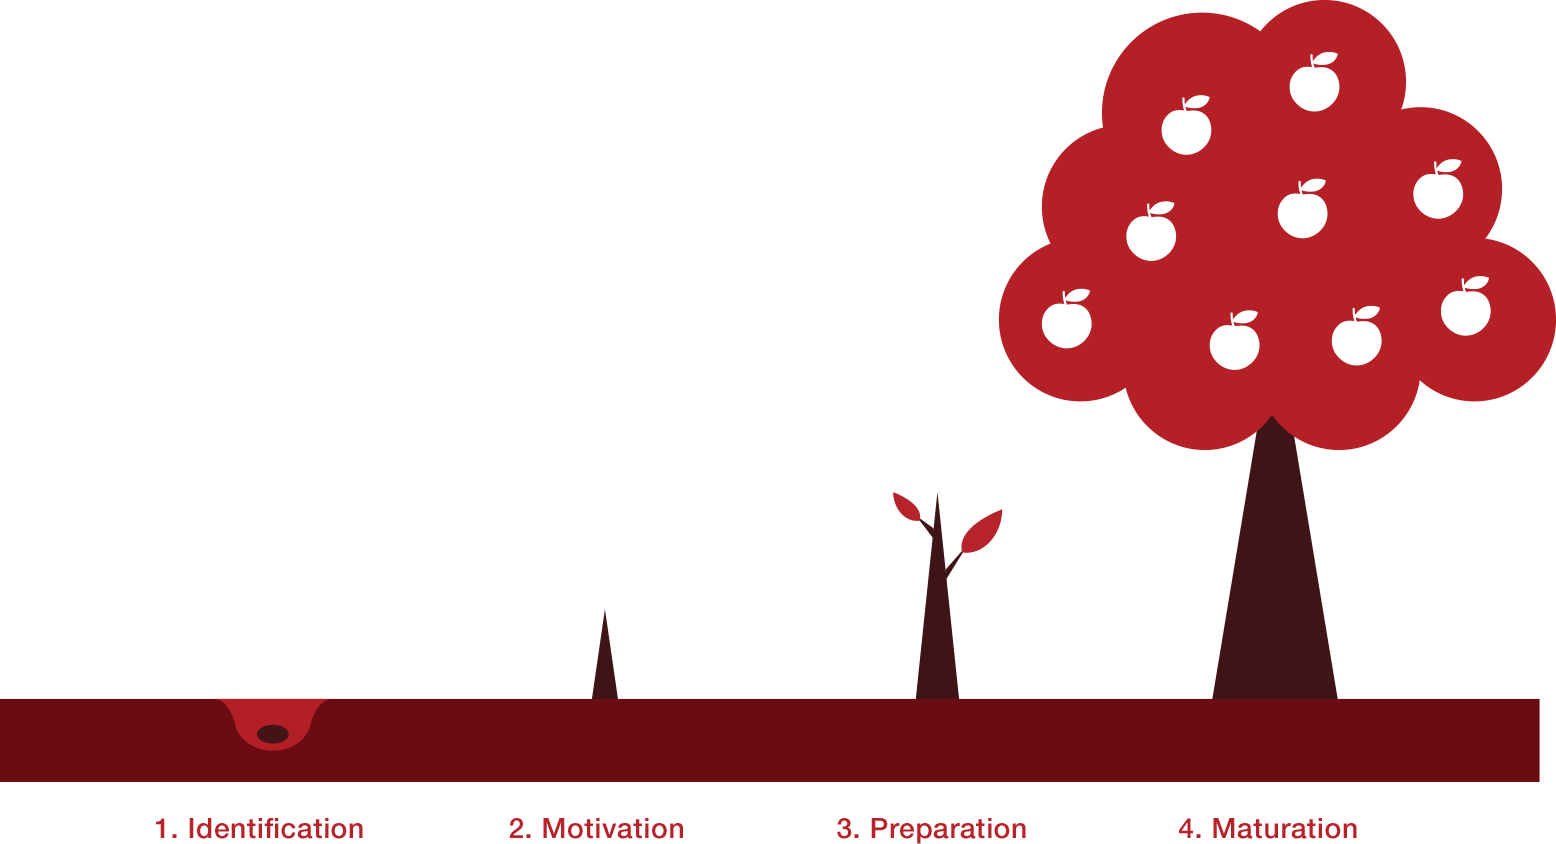
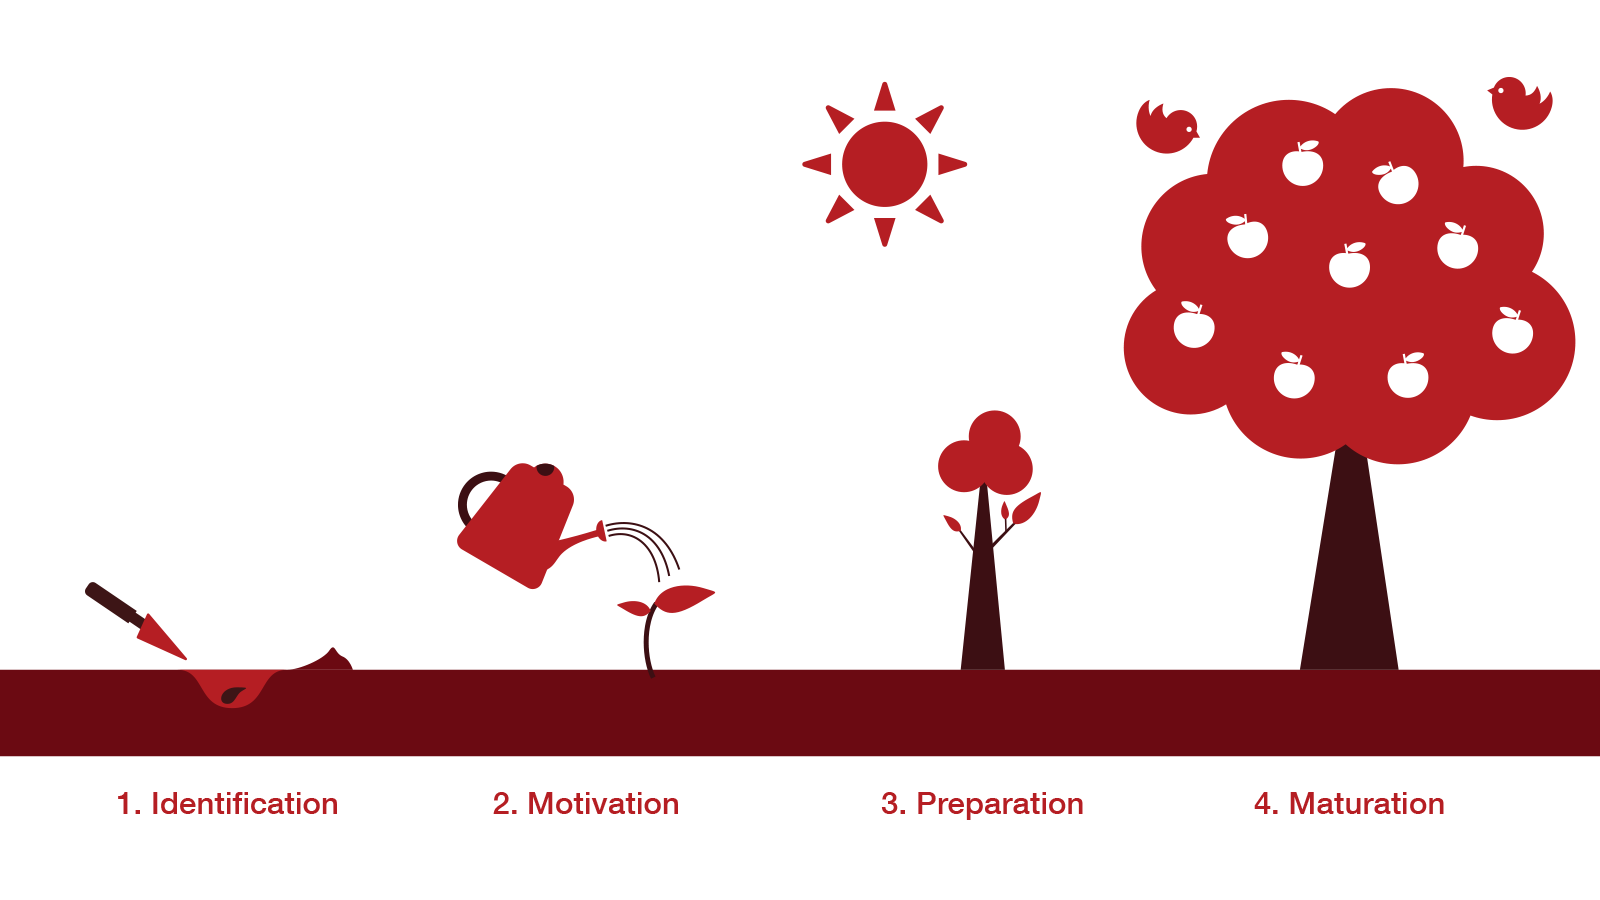
add privacy page / add keystory variation / update about page illustration

diff --git a/public/js/app/keystory/controller.js b/public/js/app/keystory/controller.js
@@ -12,6 +12,8 @@ App.Keystory.controller = {
       }, 1000);
     });
     // this.initSwitchHero();
+    this.initTextSlider();
+    this.initTextSlider2();
   },
 
   initSwitchHero: function() {
@@ -29,7 +31,6 @@ App.Keystory.controller = {
       if (count === photos.length) { count = 0; }
       $(this).css('background-image', 'url(' + photos[count] + ')');
     });
-    this.initTextSlider();
   },
 
   initTextSlider: function() {
@@ -93,5 +94,66 @@ App.Keystory.controller = {
     }
 
 
+  },
+  initTextSlider2: function() {
+    var self = this;
+
+    if (App.isMobile()) {
+      // return;
+    }
+
+
+    var selector = '.quote.tag-line .tag-container';
+    var texts = [
+      'Over 3,000 satisfied students',
+      '75% accepted to 1st choice university',
+      '90% accepted to top 3 choice universities',
+      '90% reached target test score',
+      '100% of students love Keystone!'
+    ];
+
+    var count = 0;
+
+    nextText();
+    $(selector).addClass('animated');
+    $(selector + ' h1').text(texts[count]);
+
+
+
+    setTimeout(function () {
+      $(selector).addClass('fadeOutLeft');
+    }, 5000);
+
+    function nextText () {
+
+      setInterval(function() {
+        count ++;
+        if (count === texts.length) {
+          count = 0;
+        }
+
+
+
+        $(selector + ' h1').text(texts[count]);
+        $(selector).addClass('fadeInRight');
+        $(selector).removeClass('fadeOutLeft');
+
+        setTimeout(function() {
+          $(selector).addClass('fadeOutLeft');
+          $(selector).removeClass('fadeInRight');
+
+        }, 5000);
+        //change text
+
+        // fade in right
+
+        // wait 5 sec
+
+        // fade out left
+
+
+      }, 5500);
+
+    }
   }
 };

diff --git a/public/styles/site/keystory.scss b/public/styles/site/keystory.scss
@@ -63,8 +63,8 @@
     }
   }
   .sub {
-    display: none;
-    /*font-size: 40px;*/
+    /*display: none;*/
+    font-size: 40px;
     font-weight: lighter;
     @media (max-width: $tablet-width) {
       display: block;
@@ -136,5 +136,34 @@
 
 
 .connect {
+
+}
+
+/* ------ keystory2 ------*/
+
+.quote.tag-line { 
+  height: 300px;
+  text-align: center;
+  padding: 40px 3% 10px 3% !important;
+  @media (max-width: $tablet-width) {
+    height: 250px;
+  }
+
+  h1 {
+    /*color: $main-red;*/
+    /*font-weight: bold;*/
+    margin-top: 85px;
+    margin-bottom: 15px;
+    @media (max-width: $tablet-width) {
+      font-size: 30px;
+      margin-top: 65px;
+    }
+  }
+  .underline {
+    height: 2px;
+    background: $main-red;
+    width: 40px;
+    margin: auto;
+  }
 
 }

diff --git a/routes/index.js b/routes/index.js
@@ -38,11 +38,13 @@ exports = module.exports = function(app) {
 	app.get('/', routes.views.index);
 	app.get('/service/:category?', routes.views.service);
 	app.get('/keystory', routes.views.keystory);
+	app.get('/keystory2', routes.views.keystory2);
 	app.get('/about', routes.views.about);
 	app.get('/career', routes.views.career);
 	app.get('/blog/:category?', routes.views.blog);
 	app.get('/blog/post/:post', routes.views.post);
 	app.get('/contact', routes.views.contact);
+	app.get('/privacy', routes.views.privacy);
 	
 	app.get('/bootcamp', routes.views.bootcamp);
 	app.get('/snapshot', routes.views.snapshot);

diff --git a/routes/views/keystory2.js b/routes/views/keystory2.js
@@ -1,0 +1,15 @@
+var keystone = require('keystone');
+
+exports = module.exports = function(req, res) {
+  
+  var view = new keystone.View(req, res),
+    locals = res.locals;
+  
+  // locals.section is used to set the currently selected
+  // item in the header navigation.
+  locals.section = 'keystory2';
+  
+  // Render the view
+  view.render('keystory2');
+  
+};

diff --git a/routes/views/privacy.js b/routes/views/privacy.js
@@ -1,0 +1,15 @@
+var keystone = require('keystone');
+
+exports = module.exports = function(req, res) {
+  
+  var view = new keystone.View(req, res),
+    locals = res.locals;
+  
+  // locals.section is used to set the currently selected
+  // item in the header navigation.
+  locals.section = 'privacy';
+  
+  // Render the view
+  view.render('privacy');
+  
+};

diff --git a/public/styles/site/_footer.scss b/public/styles/site/_footer.scss
@@ -45,6 +45,7 @@ $facebook-logo-url: '../images/footer-facebook.png';
   }*/
   text-align: center;
   .copyright {
+    float: right;
     color: white;
     
 
@@ -57,6 +58,7 @@ $facebook-logo-url: '../images/footer-facebook.png';
 /*    @media (max-width: $mobile-width) {
       margin: 0 2px 0 2px;
     }*/
+    float: left;
   }
 
   .sns {

diff --git a/public/styles/site/common.scss b/public/styles/site/common.scss
@@ -280,7 +280,7 @@ a {
   }
 
 
-  h1, h2, h4, h6 {
+  h1, h2, h3, h4, h5, h6 {
     font-weight: bold;
   }
 
@@ -328,6 +328,18 @@ a {
 
   ul {
     margin-bottom: 20px;
+    li {
+      &.long {
+        margin-top: 10px;
+      }
+    }
   }
+
 }
 
+
+.desktop-only {
+  @media (max-width: $mobile-width) {
+    display: none;
+  }
+}
